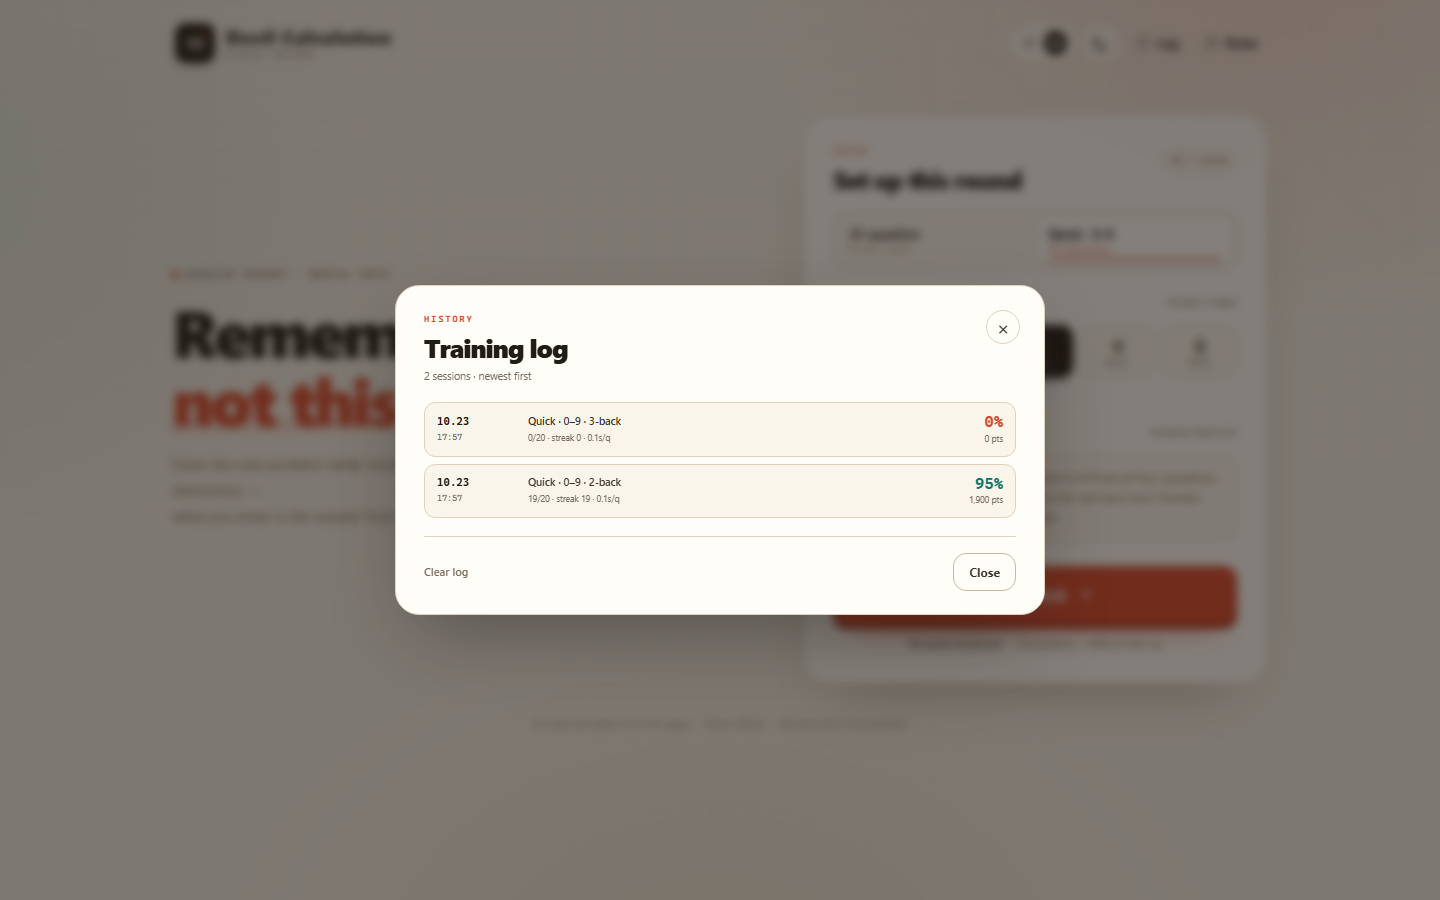
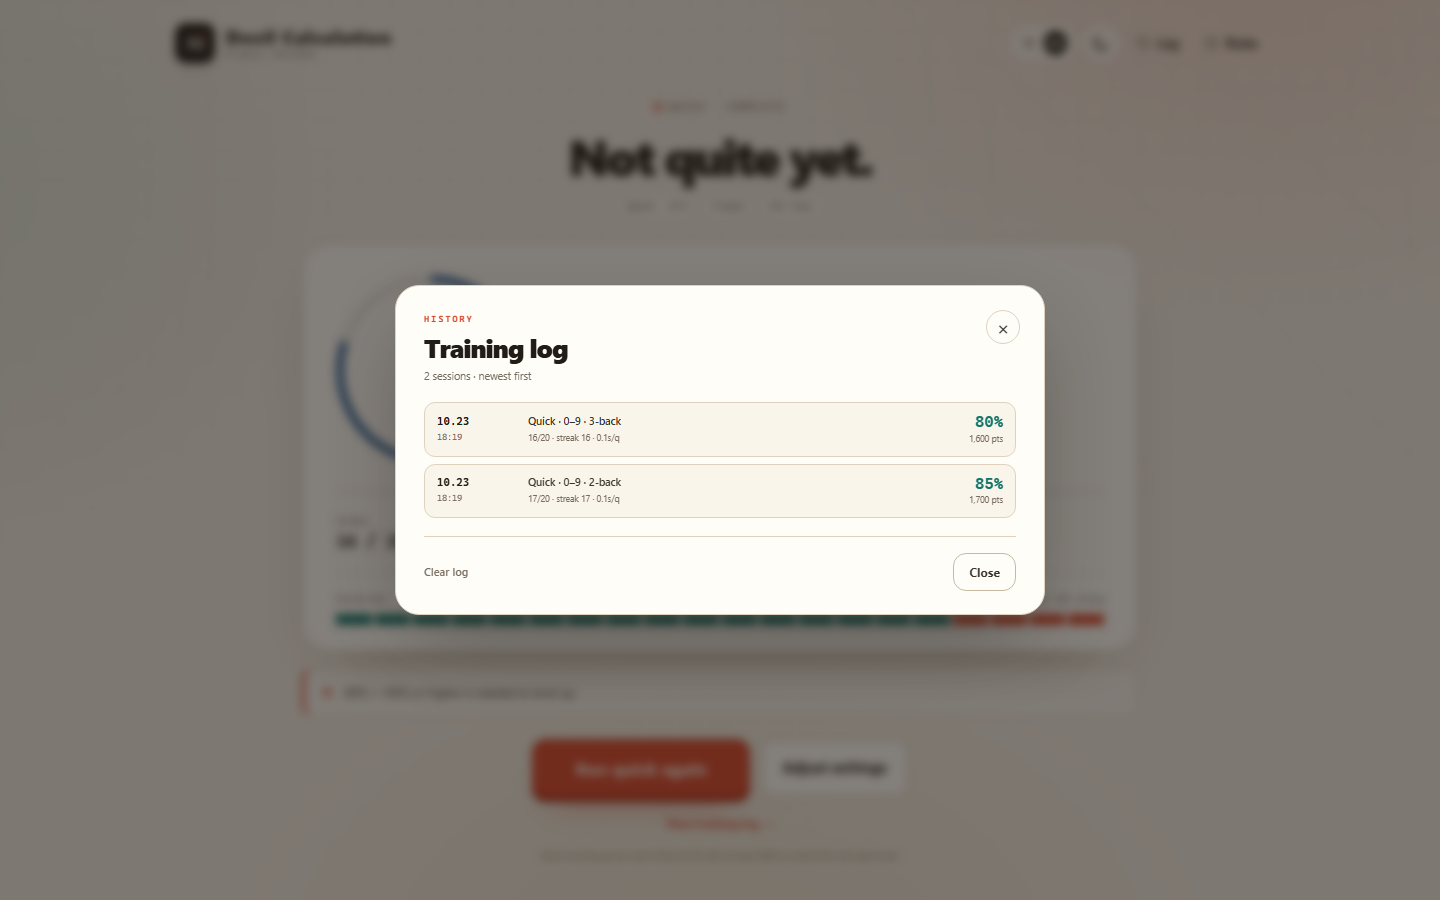
Lower quick-mode promotion threshold to 85 percent
17/20 now advances; 16/20 does not. Update quick best filtering, bilingual copy, README, tests, and boundary previews.

diff --git a/魔鬼计算.html b/魔鬼计算.html
@@ -4870,7 +4870,7 @@ html[data-theme] .guide-panel .example {
       session
       && session.mode === 'endless'
       && session.total === QUICK_TOTAL
-      && session.correct > QUICK_TOTAL * 0.9
+      && session.correct * 100 >= QUICK_TOTAL * 85
     ));
     return findEndlessBest(quickSessions, { ...normalized, ops: 'all', digits: 1 });
   }
@@ -4968,7 +4968,7 @@ html[data-theme] .guide-panel .example {
       digits_1_sub: `一位数 + − × ÷，表内乘除`,
       digits_2: `两位数`,
       digits_2_sub: `两位加减 · 两位 ×/÷ 一位`,
-      endless_info: `每轮 20 题，答案固定 0–9，默认使用加减乘除。答完 20 题后结算；正确率超过 90% 可进入更高回溯。数字范围与运算类型设置不适用。`,
+      endless_info: `每轮 20 题，答案固定 0–9，默认使用加减乘除。答完 20 题后结算；正确率达到 85% 可进入更高回溯。数字范围与运算类型设置不适用。`,
       ops_addsub: `加减`,
       ops_addsub_sub: `只出现 + 和 −`,
       ops_all: `加减乘除`,
@@ -4985,7 +4985,7 @@ html[data-theme] .guide-panel .example {
       best_endless: `快速最佳 {score} 分 · {percent}%`,
       best_storage: ` · 记录不会保存`,
       setup_note_normal: `不限时 · 按自己的节奏`,
-      setup_note_endless: `20 题一轮 · 正确率 >90% 进阶`,
+      setup_note_endless: `20 题一轮 · 正确率 ≥85% 进阶`,
       guide_title: `别答眼前这道题`,
       guide_step1_title: `先算，再记`,
       guide_step1_text: `每题出现时，先算出答案，把它放进脑子里的记忆队列。`,
@@ -5040,12 +5040,12 @@ html[data-theme] .guide-panel .example {
       result_title_quick_fail: `还差一点。`,
       quick_pass_msg: `正确率 {percent}% — 通过，可以进入 {next} 回溯。`,
       quick_max_msg: `正确率 {percent}% — 已在最高 5 回溯。`,
-      quick_fail_msg: `正确率 {percent}% — 需要超过 90% 才能进阶。`,
+      quick_fail_msg: `正确率 {percent}% — 需要达到 85% 才能进阶。`,
       quick_09: `快速 · 0–9`,
       result_adjust: `调整设置`,
       result_history: `查看训练记录`,
       result_foot_normal: `同一设置下，正确率相同则平均用时更短者刷新纪录。`,
-      result_foot_endless: `快速模式按得分计算纪录；完成 20 题且正确率超过 90% 进入下一回溯。`,
+      result_foot_endless: `快速模式按得分计算纪录；完成 20 题且正确率达到 85% 进入下一回溯。`,
       history_title: `训练记录`,
       history_sub: `只保存在当前浏览器`,
       history_sub_count: `共 {count} 次训练 · 按时间倒序`,
@@ -5066,7 +5066,7 @@ html[data-theme] .guide-panel .example {
       help_step2_title: `开始回溯`,
       help_step2_text: `从第 N+1 题起，要回答的是 N 题前那道题的答案。当前题只需要继续计算并记住，不要回答它的答案。`,
       help_step3_title: `连续训练`,
-      help_step3_text: `普通局 25 题；快速模式每轮 20 题，整轮正确率超过 90% 可进入更高回溯。答错不中断，会显示旧题的正确答案。`,
+      help_step3_text: `普通局 25 题；快速模式每轮 20 题，整轮正确率达到 85% 可进入更高回溯。答错不中断，会显示旧题的正确答案。`,
       help_example_1: `2-回溯 · 第 1 题`,
       help_example_2: `第 2 题`,
       help_example_3: `第 3 题出现时`,
@@ -5074,7 +5074,7 @@ html[data-theme] .guide-panel .example {
       help_answer: `回答 7`,
       help_note_time_html: `<b>计时：</b>不限时，按自己的节奏。总用时和平均每题时间会记录在成绩里。`,
       help_note_gen_html: `<b>出题：</b>减法保证非负，除法保证整除。两位数模式下，加减为两位 ± 两位，乘除为两位 ×/÷ 一位。`,
-      help_note_endless_html: `<b>快速模式：</b>每轮 20 题，答案固定 0–9，默认使用加减乘除。整轮正确率超过 90% 进入更高回溯；中途退出不保存本轮。`,
+      help_note_endless_html: `<b>快速模式：</b>每轮 20 题，答案固定 0–9，默认使用加减乘除。整轮正确率达到 85% 进入更高回溯；中途退出不保存本轮。`,
       help_note_records_html: `<b>记录：</b>只保存在本机浏览器，不上传任何数据。换浏览器或清除站点数据会清空记录。`,
       help_done: `知道了`,
       close_aria: `关闭`,
@@ -5215,7 +5215,7 @@ html[data-theme] .guide-panel .example {
       digits_1_sub: `1-digit + − × ÷, times-table division`,
       digits_2: `2-digit`,
       digits_2_sub: `2-digit + − · 2-digit ×/÷ 1-digit`,
-      endless_info: `20 questions per round with answers fixed to 0–9 and all four operations. After 20, an accuracy above 90% unlocks the next back level. Number-range and operation settings don't apply.`,
+      endless_info: `20 questions per round with answers fixed to 0–9 and all four operations. After 20, an accuracy of at least 85% unlocks the next back level. Number-range and operation settings don't apply.`,
       ops_addsub: `Add & subtract`,
       ops_addsub_sub: `+ and − only`,
       ops_all: `All four`,
@@ -5232,7 +5232,7 @@ html[data-theme] .guide-panel .example {
       best_endless: `Quick best: {score} pts · {percent}%`,
       best_storage: ` · records won't be saved`,
       setup_note_normal: `Untimed · go at your own pace`,
-      setup_note_endless: `20 questions · >90% to level up`,
+      setup_note_endless: `20 questions · ≥85% to level up`,
       guide_title: `Don't answer the current one`,
       guide_step1_title: `Compute, then hold`,
       guide_step1_text: `Work out each answer and keep it in your mental queue.`,
@@ -5287,12 +5287,12 @@ html[data-theme] .guide-panel .example {
       result_title_quick_fail: `Not quite yet.`,
       quick_pass_msg: `{percent}% — passed. Next: {next} back.`,
       quick_max_msg: `{percent}% at the top level (5 back).`,
-      quick_fail_msg: `{percent}% — above 90% is needed to level up.`,
+      quick_fail_msg: `{percent}% — 85% or higher is needed to level up.`,
       quick_09: `Quick · 0–9`,
       result_adjust: `Adjust settings`,
       result_history: `View training log`,
       result_foot_normal: `For the same setup, a faster average breaks a tie.`,
-      result_foot_endless: `Quick records go by score; finish all 20 above 90% to unlock the next back level.`,
+      result_foot_endless: `Quick records go by score; finish all 20 with at least 85% to unlock the next back level.`,
       history_title: `Training log`,
       history_sub: `Saved only in this browser`,
       history_sub_count: `{count} sessions · newest first`,
@@ -5313,7 +5313,7 @@ html[data-theme] .guide-panel .example {
       help_step2_title: `Start looking back`,
       help_step2_text: `From question N+1, answer the question N steps back. Keep solving the current one — don't enter its answer.`,
       help_step3_title: `Keep training`,
-      help_step3_text: `25 questions in a normal round; quick mode runs 20 questions per round, and above 90% accuracy unlocks the next back level. A wrong answer shows the old correction and continues.`,
+      help_step3_text: `25 questions in a normal round; quick mode runs 20 questions per round, and at least 85% accuracy unlocks the next back level. A wrong answer shows the old correction and continues.`,
       help_example_1: `2-back · Q1`,
       help_example_2: `Q2`,
       help_example_3: `When Q3 appears`,
@@ -5321,7 +5321,7 @@ html[data-theme] .guide-panel .example {
       help_answer: `answer 7`,
       help_note_time_html: `<b>Timing:</b> Untimed. Total and average time are recorded.`,
       help_note_gen_html: `<b>Questions:</b> Subtraction is non-negative and division is exact. In 2-digit mode, + − use two-digit operands; ×/÷ pair a two-digit number with a one-digit number.`,
-      help_note_endless_html: `<b>Quick mode:</b> 20 questions per round, answers 0–9, all four operations. Finish above 90% accuracy to unlock the next back level; quitting early discards the round.`,
+      help_note_endless_html: `<b>Quick mode:</b> 20 questions per round, answers 0–9, all four operations. Finish with at least 85% accuracy to unlock the next back level; quitting early discards the round.`,
       help_note_records_html: `<b>Records:</b> Stored in this browser only. No data is uploaded. Changing browsers or clearing site data clears them.`,
       help_done: `Got it`,
       close_aria: `Close`,
@@ -6370,7 +6370,7 @@ html[data-theme] .guide-panel .example {
       ? bestBefore.correct / bestBefore.total
       : 0;
     const bestSpeed = bestBefore && bestBefore.avgMs > 0 ? bestBefore.avgMs : Infinity;
-    const passed = accuracy > 0.9;
+    const passed = answered > 0 && session.correct * 100 >= answered * 85;
     const nextN = passed && session.n < E.MAX_N ? session.n + 1 : session.n;
     const isRecord = passed && (!bestBefore
       || record.score > bestBefore.score

diff --git a/dev/app.js b/dev/app.js
@@ -55,7 +55,7 @@
       digits_1_sub: `一位数 + − × ÷，表内乘除`,
       digits_2: `两位数`,
       digits_2_sub: `两位加减 · 两位 ×/÷ 一位`,
-      endless_info: `每轮 20 题，答案固定 0–9，默认使用加减乘除。答完 20 题后结算；正确率超过 90% 可进入更高回溯。数字范围与运算类型设置不适用。`,
+      endless_info: `每轮 20 题，答案固定 0–9，默认使用加减乘除。答完 20 题后结算；正确率达到 85% 可进入更高回溯。数字范围与运算类型设置不适用。`,
       ops_addsub: `加减`,
       ops_addsub_sub: `只出现 + 和 −`,
       ops_all: `加减乘除`,
@@ -72,7 +72,7 @@
       best_endless: `快速最佳 {score} 分 · {percent}%`,
       best_storage: ` · 记录不会保存`,
       setup_note_normal: `不限时 · 按自己的节奏`,
-      setup_note_endless: `20 题一轮 · 正确率 >90% 进阶`,
+      setup_note_endless: `20 题一轮 · 正确率 ≥85% 进阶`,
       guide_title: `别答眼前这道题`,
       guide_step1_title: `先算，再记`,
       guide_step1_text: `每题出现时，先算出答案，把它放进脑子里的记忆队列。`,
@@ -127,12 +127,12 @@
       result_title_quick_fail: `还差一点。`,
       quick_pass_msg: `正确率 {percent}% — 通过，可以进入 {next} 回溯。`,
       quick_max_msg: `正确率 {percent}% — 已在最高 5 回溯。`,
-      quick_fail_msg: `正确率 {percent}% — 需要超过 90% 才能进阶。`,
+      quick_fail_msg: `正确率 {percent}% — 需要达到 85% 才能进阶。`,
       quick_09: `快速 · 0–9`,
       result_adjust: `调整设置`,
       result_history: `查看训练记录`,
       result_foot_normal: `同一设置下，正确率相同则平均用时更短者刷新纪录。`,
-      result_foot_endless: `快速模式按得分计算纪录；完成 20 题且正确率超过 90% 进入下一回溯。`,
+      result_foot_endless: `快速模式按得分计算纪录；完成 20 题且正确率达到 85% 进入下一回溯。`,
       history_title: `训练记录`,
       history_sub: `只保存在当前浏览器`,
       history_sub_count: `共 {count} 次训练 · 按时间倒序`,
@@ -153,7 +153,7 @@
       help_step2_title: `开始回溯`,
       help_step2_text: `从第 N+1 题起，要回答的是 N 题前那道题的答案。当前题只需要继续计算并记住，不要回答它的答案。`,
       help_step3_title: `连续训练`,
-      help_step3_text: `普通局 25 题；快速模式每轮 20 题，整轮正确率超过 90% 可进入更高回溯。答错不中断，会显示旧题的正确答案。`,
+      help_step3_text: `普通局 25 题；快速模式每轮 20 题，整轮正确率达到 85% 可进入更高回溯。答错不中断，会显示旧题的正确答案。`,
       help_example_1: `2-回溯 · 第 1 题`,
       help_example_2: `第 2 题`,
       help_example_3: `第 3 题出现时`,
@@ -161,7 +161,7 @@
       help_answer: `回答 7`,
       help_note_time_html: `<b>计时：</b>不限时，按自己的节奏。总用时和平均每题时间会记录在成绩里。`,
       help_note_gen_html: `<b>出题：</b>减法保证非负，除法保证整除。两位数模式下，加减为两位 ± 两位，乘除为两位 ×/÷ 一位。`,
-      help_note_endless_html: `<b>快速模式：</b>每轮 20 题，答案固定 0–9，默认使用加减乘除。整轮正确率超过 90% 进入更高回溯；中途退出不保存本轮。`,
+      help_note_endless_html: `<b>快速模式：</b>每轮 20 题，答案固定 0–9，默认使用加减乘除。整轮正确率达到 85% 进入更高回溯；中途退出不保存本轮。`,
       help_note_records_html: `<b>记录：</b>只保存在本机浏览器，不上传任何数据。换浏览器或清除站点数据会清空记录。`,
       help_done: `知道了`,
       close_aria: `关闭`,
@@ -302,7 +302,7 @@
       digits_1_sub: `1-digit + − × ÷, times-table division`,
       digits_2: `2-digit`,
       digits_2_sub: `2-digit + − · 2-digit ×/÷ 1-digit`,
-      endless_info: `20 questions per round with answers fixed to 0–9 and all four operations. After 20, an accuracy above 90% unlocks the next back level. Number-range and operation settings don't apply.`,
+      endless_info: `20 questions per round with answers fixed to 0–9 and all four operations. After 20, an accuracy of at least 85% unlocks the next back level. Number-range and operation settings don't apply.`,
       ops_addsub: `Add & subtract`,
       ops_addsub_sub: `+ and − only`,
       ops_all: `All four`,
@@ -319,7 +319,7 @@
       best_endless: `Quick best: {score} pts · {percent}%`,
       best_storage: ` · records won't be saved`,
       setup_note_normal: `Untimed · go at your own pace`,
-      setup_note_endless: `20 questions · >90% to level up`,
+      setup_note_endless: `20 questions · ≥85% to level up`,
       guide_title: `Don't answer the current one`,
       guide_step1_title: `Compute, then hold`,
       guide_step1_text: `Work out each answer and keep it in your mental queue.`,
@@ -374,12 +374,12 @@
       result_title_quick_fail: `Not quite yet.`,
       quick_pass_msg: `{percent}% — passed. Next: {next} back.`,
       quick_max_msg: `{percent}% at the top level (5 back).`,
-      quick_fail_msg: `{percent}% — above 90% is needed to level up.`,
+      quick_fail_msg: `{percent}% — 85% or higher is needed to level up.`,
       quick_09: `Quick · 0–9`,
       result_adjust: `Adjust settings`,
       result_history: `View training log`,
       result_foot_normal: `For the same setup, a faster average breaks a tie.`,
-      result_foot_endless: `Quick records go by score; finish all 20 above 90% to unlock the next back level.`,
+      result_foot_endless: `Quick records go by score; finish all 20 with at least 85% to unlock the next back level.`,
       history_title: `Training log`,
       history_sub: `Saved only in this browser`,
       history_sub_count: `{count} sessions · newest first`,
@@ -400,7 +400,7 @@
       help_step2_title: `Start looking back`,
       help_step2_text: `From question N+1, answer the question N steps back. Keep solving the current one — don't enter its answer.`,
       help_step3_title: `Keep training`,
-      help_step3_text: `25 questions in a normal round; quick mode runs 20 questions per round, and above 90% accuracy unlocks the next back level. A wrong answer shows the old correction and continues.`,
+      help_step3_text: `25 questions in a normal round; quick mode runs 20 questions per round, and at least 85% accuracy unlocks the next back level. A wrong answer shows the old correction and continues.`,
       help_example_1: `2-back · Q1`,
       help_example_2: `Q2`,
       help_example_3: `When Q3 appears`,
@@ -408,7 +408,7 @@
       help_answer: `answer 7`,
       help_note_time_html: `<b>Timing:</b> Untimed. Total and average time are recorded.`,
       help_note_gen_html: `<b>Questions:</b> Subtraction is non-negative and division is exact. In 2-digit mode, + − use two-digit operands; ×/÷ pair a two-digit number with a one-digit number.`,
-      help_note_endless_html: `<b>Quick mode:</b> 20 questions per round, answers 0–9, all four operations. Finish above 90% accuracy to unlock the next back level; quitting early discards the round.`,
+      help_note_endless_html: `<b>Quick mode:</b> 20 questions per round, answers 0–9, all four operations. Finish with at least 85% accuracy to unlock the next back level; quitting early discards the round.`,
       help_note_records_html: `<b>Records:</b> Stored in this browser only. No data is uploaded. Changing browsers or clearing site data clears them.`,
       help_done: `Got it`,
       close_aria: `Close`,
@@ -1457,7 +1457,7 @@
       ? bestBefore.correct / bestBefore.total
       : 0;
     const bestSpeed = bestBefore && bestBefore.avgMs > 0 ? bestBefore.avgMs : Infinity;
-    const passed = accuracy > 0.9;
+    const passed = answered > 0 && session.correct * 100 >= answered * 85;
     const nextN = passed && session.n < E.MAX_N ? session.n + 1 : session.n;
     const isRecord = passed && (!bestBefore
       || record.score > bestBefore.score

diff --git a/dev/engine.js b/dev/engine.js
@@ -500,7 +500,7 @@
       session
       && session.mode === 'endless'
       && session.total === QUICK_TOTAL
-      && session.correct > QUICK_TOTAL * 0.9
+      && session.correct * 100 >= QUICK_TOTAL * 85
     ));
     return findEndlessBest(quickSessions, { ...normalized, ops: 'all', digits: 1 });
   }

diff --git a/README.en.md b/README.en.md
@@ -23,8 +23,8 @@ Open [`魔鬼计算.html`](魔鬼计算.html) in Chrome or Edge. No install, ser
 - Always uses **all four operations**; quick mode has no operation selector
 - A 3-column keypad with only 0–9; delete and confirm are hidden, and 0 is centered
 - A 20-question progress bar at the top; **tap a digit to submit immediately**
-- After 20 questions, the round is scored; an accuracy **strictly above 90%** (19/20 or 20/20) unlocks the next back level
-- Below that, stay at the current level and replay the round
+- After 20 questions, the round is scored; an accuracy of **at least 85%** (17/20 or better) unlocks the next back level
+- Below 85%, stay at the current level and replay the round
 - Passing raises the setup back level by one (max 5); quitting early discards the round
 - Quick best records only include passing rounds; history keeps every completed round
 

diff --git a/README.md b/README.md
@@ -23,8 +23,8 @@
 - 默认使用 **加减乘除**；快速模式不提供运算类型选择
 - 沿用 3 列数字键盘，仅保留 0–9，删除/确认隐藏，0 居中
 - 顶部显示 20 题进度；**点数字立即提交**，答错短暂显示答案后自动下一题
-- 答完 20 题结算；整轮正确率**严格超过 90%**（19/20 或 20/20）可进入更高回溯
-- 未超过 90% 保持当前回溯，可再来一轮
+- 答完 20 题结算；整轮正确率**达到 85%**（17/20 或更高）可进入更高回溯
+- 未达到 85% 保持当前回溯，可再来一轮
 - 通过后设置中的回溯等级自动 +1（最高 5）；中途退出不保存本轮
 - 快速最佳只统计通过轮次，历史记录仍保留所有完成轮次
 
